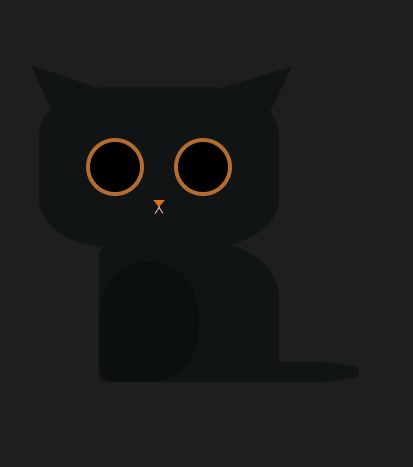
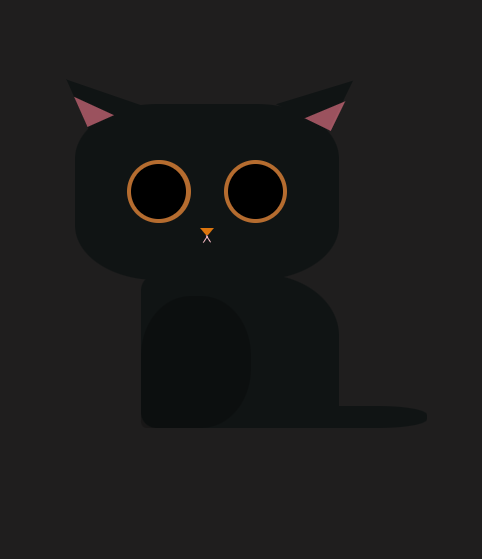
Update

Changed region(s): [[0.2034, 0.2698, 0.6102, 0.4497], [0.6392, 0.1799, 0.7264, 0.2398], [0.1453, 0.1799, 0.2324, 0.2398]]

diff --git a/index.css b/index.css
@@ -6,9 +6,7 @@
     text-decoration: none;
 }
 
-a{
-    color: red;
-}
+
 body{
     background-image: linear-gradient(45deg, rgb(26, 23, 23), rgb(12, 12, 64));
     height: 100vh;
@@ -17,7 +15,8 @@ body{
     overflow: hidden;
 }
 :root{
-    --card-color: rgb(0, 0, 0);
+    --card-color: rgb(255, 255, 255);
+    --card-color-hover: rgb(0, 0, 0);
 }
 header{
     background-color: rgba(0, 0, 0, 0.157);
@@ -26,8 +25,6 @@ header{
     padding: 24px;
     align-items: center;
     text-transform: uppercase;
-    /* margin-bottom: 3.5%; */
-
 }
 nav ul{
     display: flex;
@@ -72,12 +69,12 @@ img{
 #card{
     height: 400px;
     width: 315px;
-    background-color: aliceblue;
+    background-color: var(--card-color);
     background-size: cover;
     background-repeat: no-repeat;
     display: flex;
     align-items: flex-end;
-    border: 2px solid white;
+    border: 2px solid var(--card-color);
     background-position-y: -30px;
     font-family: 'Rubik 80s Fade', cursive;
     font-size: 20px;
@@ -89,7 +86,7 @@ img{
 
 #draws-name{
     width: 100%;
-    background-color: aliceblue;
+    background-color: var(--card-color);
     padding: 13px;
     border-radius: 20% 100% 0% 0%;
     text-transform: uppercase;
@@ -108,13 +105,13 @@ li{
 
 #card:hover{
     transform: translateY(-15px) rotate(3deg);
-    border: 2px solid var(--card-color);
-    background-color: var(--card-color);
+    border: 2px solid var(--card-color-hover);
+    background-color: var(--card-color-hover);
 
     transition: transform 200ms linear, border 400ms linear, background-color 400ms linear;
 }
 #card:hover > #draws-name{
-    background-color: var(--card-color);
+    background-color: var(--card-color-hover);
 
     transition: background-color 400ms linear;
 }

diff --git a/Cat/index.css b/Cat/index.css
@@ -3,7 +3,7 @@
     padding: 0;
     box-sizing: border-box;
     font-family: flower;
-    font-weight:lighter;
+    font-weight: lighter;
     font-family: Minecraft, 'sans-serif';
 }
 
@@ -48,7 +48,7 @@ section{
     background-color: var(--cat-color);
     height: 160px;
     width: 240px;
-    border-radius: 30%;
+    border-radius: 31%;
 
     display: flex;
     justify-content: center;
@@ -104,6 +104,8 @@ section{
     position: absolute;
     width: 0px;
     height: 0px;
+
+
 }
 #ear{
     border-top: 50px solid rgba(255, 0, 0, 0);
@@ -118,6 +120,21 @@ section{
     transform: rotate(26deg);
 }
 
+#earC{
+    position: absolute;
+    border-top: 30px solid transparent;
+    border-left: 27px solid rgba(236, 119, 138, 0.632);
+    left: -54px;
+    top: -33px;
+}
+
+#earC1{
+    position: absolute;
+    border-top: 30px solid transparent;
+    border-right: 27px solid rgba(236, 119, 138, 0.632);
+    right: -55px;
+    top: -30px;
+}
 #body{
     position: absolute;
     background-color: var(--cat-color);
@@ -150,3 +167,18 @@ section{
     left: 150px;
 
 }
+
+
+/* #test{
+    background-color: rgb(31, 30, 30);
+    background-color: rgb(234, 21, 21);
+
+    border-radius: 50%;
+    height: 200px;
+    width: 200px;
+    position: absolute;
+    bottom: 155px;
+    left: 38%;
+    
+} 
+*/

diff --git a/Cat/index.html b/Cat/index.html
@@ -15,8 +15,14 @@
             <div id="head">
 
                 <!-- Ouvidos -->
-                <div id="ear"></div>
-                <div id="ear1"></div>
+                <div id="ear"> 
+                    <div id="earC"></div>
+                </div>
+                
+                <div id="ear1">
+                    <div id="earC1"></div>
+
+                </div>
 
                 <!-- Olhos -->
                 <div class="eyes">
@@ -39,7 +45,8 @@
                 </div>
 
             </div> 
-
+            
+            <div id="test"></div>
             
     </section>
 </body>
